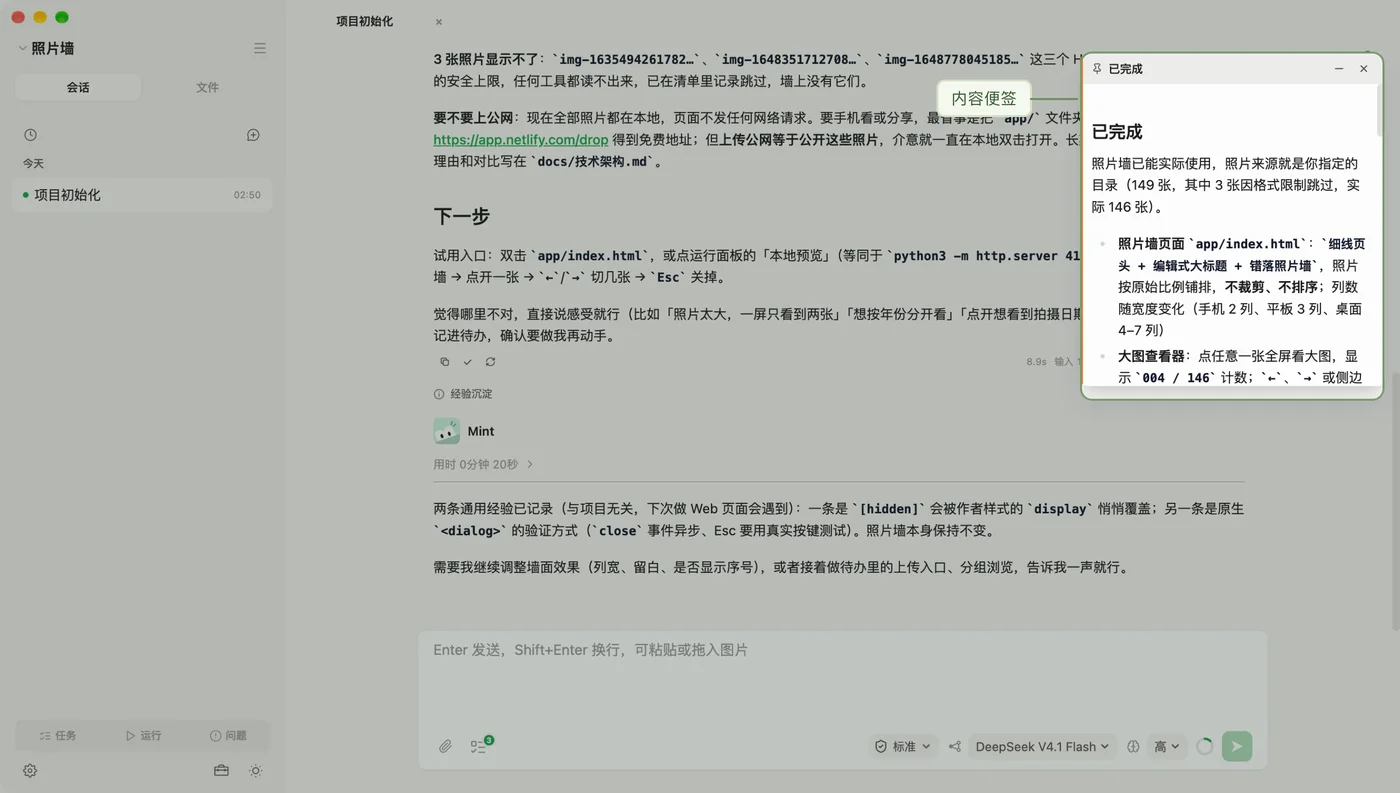
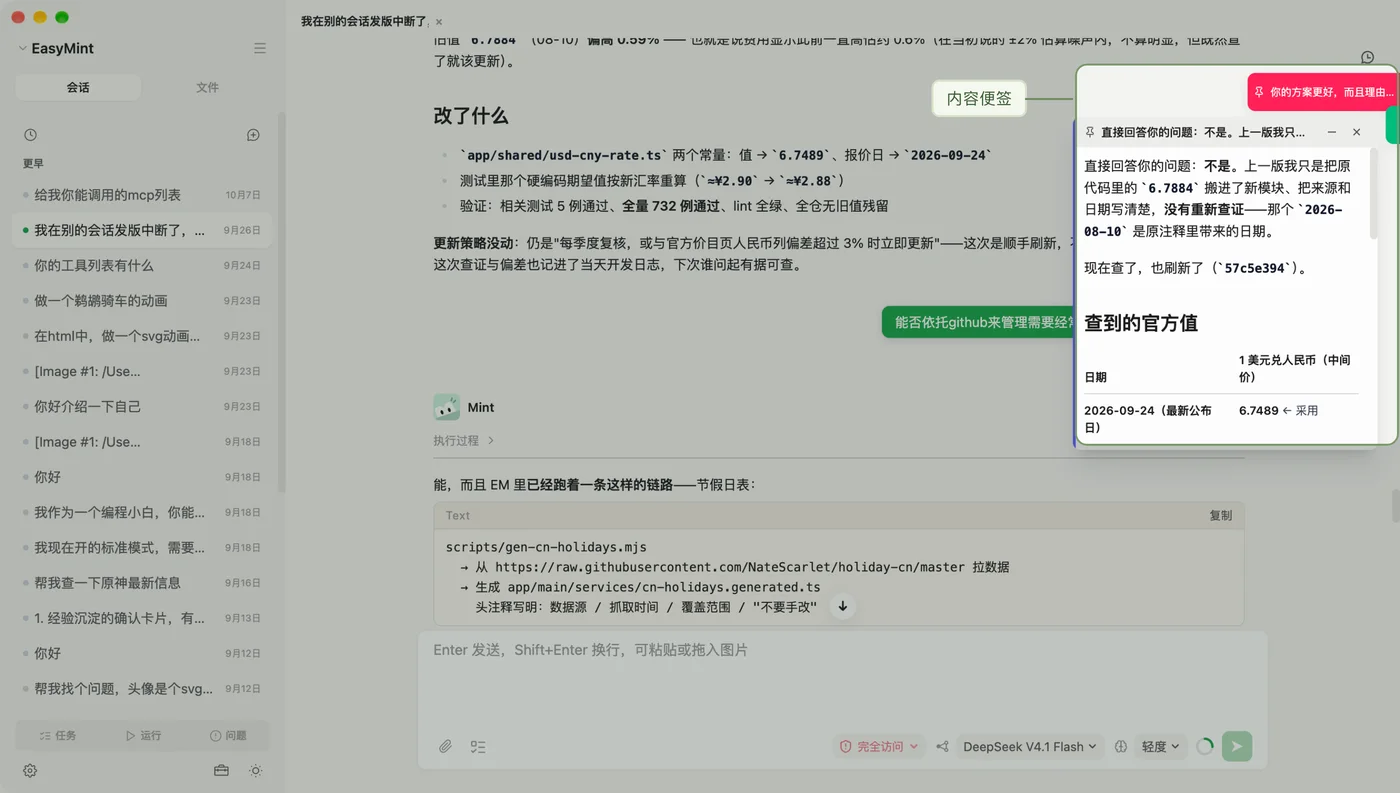
feat(site): 换新版钉住截图，圆角去底 + 聚焦框同时覆盖标签与展开面板
新截图先过 emcorners.py（Pictures/EM_UI 里那个批处理）：按四角拟合圆、
16×16 超采样生成 alpha，把圆角外的桌面色做成透明，不再是浏览器里那种
带黑边的方角。脚本自检：四角弧 alpha 126、残 0、角外色差 0.000。

这张截图里便签是「吸附边缘的小标签 + 展开面板」两部分，聚焦框按两者并集取：
x 76.80%、y 8.00%、w 23.13%、h 48.15%，上边界比红标签再高 8px 留余量，
右侧到窗口边缘，把竖排绿标签一起框进去。

README 那张仍从官网渲染结果截取，随之一并更新。

diff --git a/docs/index.html b/docs/index.html
@@ -134,7 +134,7 @@
           <figure class="stack-card" data-pos="x"><div class="focus-shot" data-focus="run" style="--focus-x:0.54422%;--focus-y:28.45138%;--focus-w:19.31973%;--focus-h:61.34454%"><img src="assets/tour-05-run.png" width="2940" height="1666" alt="运行面板：本地预览、打开页面与更新素材三条脚本" loading="lazy"><span class="focus-region" aria-hidden="true"></span><span class="focus-label" aria-hidden="true">运行面板</span></div></figure>
           <figure class="stack-card" data-pos="x"><img src="assets/tour-06-agents.png" width="2940" height="1666" alt="Agent 模板：Mint、Mint-D、Builder、Evaluator 四个角色的职责" loading="lazy"></figure>
           <figure class="stack-card" data-pos="x"><div class="focus-shot" data-focus="history" style="--focus-x:79.59184%;--focus-y:0.00000%;--focus-w:20.40816%;--focus-h:100.00000%"><img src="assets/tour-08-history.png" width="2940" height="1666" alt="历史输入面板：右侧列出这个项目过去的指令与时间" loading="lazy"><span class="focus-region" aria-hidden="true"></span><span class="focus-label" aria-hidden="true">历史输入</span></div></figure>
-          <figure class="stack-card" data-pos="-1"><div class="focus-shot" data-focus="notes" style="--focus-x:77.14%;--focus-y:6.48%;--focus-w:21.77%;--focus-h:44.00%"><img src="assets/tour-07-notes.png" width="2940" height="1666" alt="会话中把重要结论钉成悬浮便签" loading="lazy"><span class="focus-region" aria-hidden="true"></span><span class="focus-label" aria-hidden="true">内容便签</span></div></figure>
+          <figure class="stack-card" data-pos="-1"><div class="focus-shot" data-focus="notes" style="--focus-x:76.80%;--focus-y:8.00%;--focus-w:23.13%;--focus-h:48.15%"><img src="assets/tour-07-notes.png" width="2940" height="1666" alt="会话中把重要结论钉成悬浮便签" loading="lazy"><span class="focus-region" aria-hidden="true"></span><span class="focus-label" aria-hidden="true">内容便签</span></div></figure>
         </div>
       </div>
     </div>
